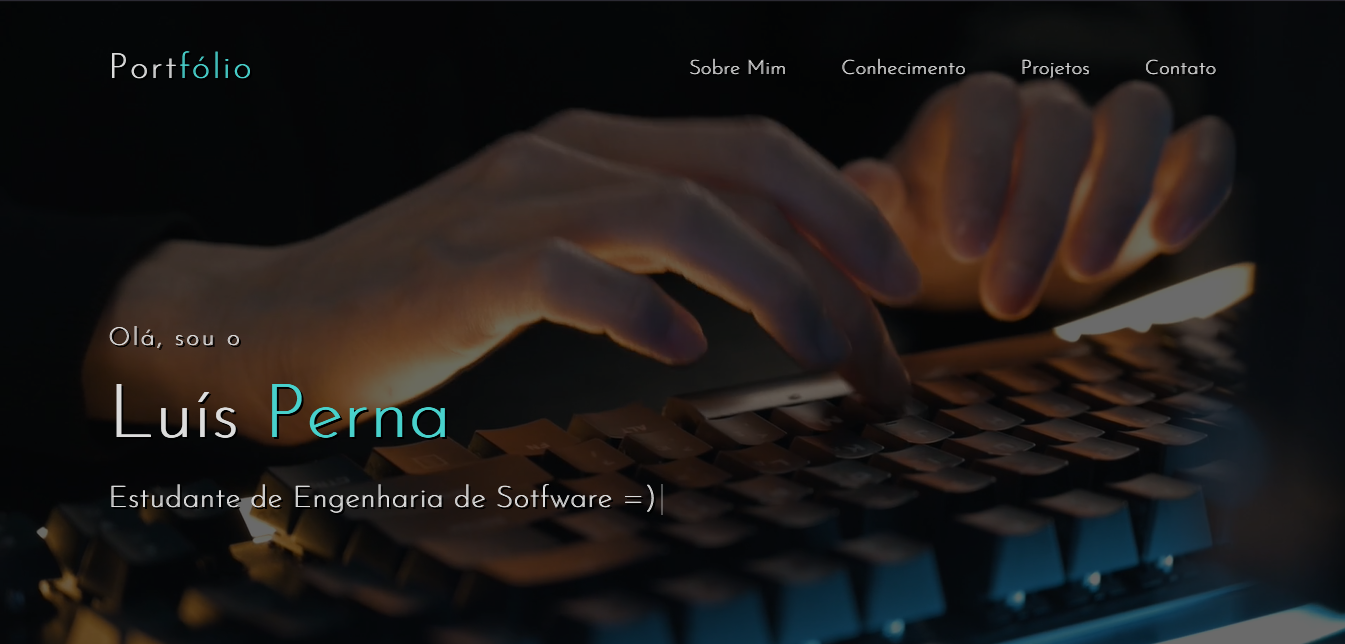
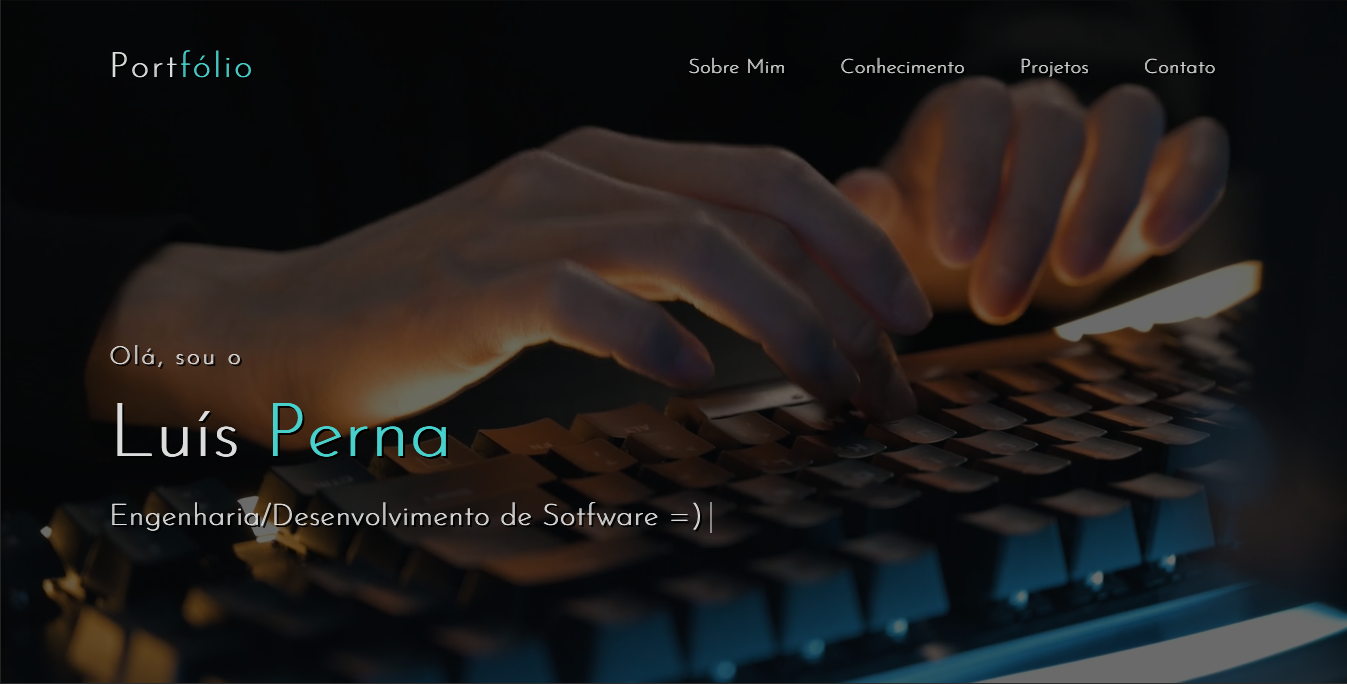
Atualização das informações e pequenos ajustes no estilo

diff --git a/index.html b/index.html
@@ -49,7 +49,7 @@
         <div class="main">
             <h4>Olá, sou o</h4>
             <h1>Luís <span>Perna</span></h1>
-            <h3 class="digitando-animation">Estudante de Engenharia de Sotfware =)</h3>
+            <h3 class="digitando-animation">Engenharia/Desenvolvimento de Sotfware =)</h3>
         </div>
         <aside>
             <div class="icone-menu" onclick="abriMenu()">
@@ -84,10 +84,10 @@
                             </div>
                     </div>
                     <p id="text-sobre-mim">Luis@Website ~<br>
-                        $ cat meu_portfolio/sobre_mim.txt<br>
-                        Saudações! Me chamo Luís Henrique Perna, tenho 19 anos e sou formado em Téc. Automação Industrial - IFSP.<br>
-                        Atualmente estou graduando em Engenharia de Software e buscando sempre aprimorar os meus conhecimentos na área.<br>
-                        Sou cativado em propor soluções a partir das tecnologias e aprender nos processos de desenvolvimento.
+                        $ cat meu_portfolio/sobre_mim.txt<br><br>
+                        Olá, sou Luís Perna, formado em Téc. Automação Industrial - IFSP e cursando Engenharia de Software.
+                        Minha paixão é criar soluções inovadoras por meio da tecnologia e estou sempre em busca de desafios para expandir meu conhecimento.<br><br>
+                        Estou comprometido em crescer continuamente na área de Engenharia de Software e contribuir para o mundo da tecnologia e seus usuários.
                     </p>
                 </div>
             </div>
@@ -104,17 +104,17 @@
         <div class="faces-cartao">
             <div class="cartao-frontal">
                 <h5 class="titulo-cartao">Relevar cartão</h5>
-                <p class="descrição-cartão">Descubra as tecnologias que estou utilizando ou estudando no momento.</p>
+                <p class="descrição-cartão">Descubra as tecnologias que utilizo ou estudo aqui.</p>
             </div>
             <div class="cartao-traseira">
                 <h5>Linguagens (geral):</h5>
-                <p>HTML | CSS | JavaScript | Python</p>
-                <h5>Banco de Dados:</h5>
-                <p>SQL | SGBD MySQL</p>
-                <h5>Versionamento e Hopedagem de código-fonte:</h5>
-                <p>Git | GitHub</p>
-                <h5>Deploy:</h5>
-                <p>GitHub Pages | Netlify | Heroku</p>
+                <p>C# | C++ | JavaScript | PHP | Python | HTML | CSS</p><br>
+                <h5>Banco de Dados/SGBD:</h5>
+                <p>SQL | PostgreSQL | SQL Server</p><br>
+                <h5>Versionamento/Hopedagem/Deploy:</h5>
+                <p>Git | GitHub | IIS | PM2 | GitHub Pages | Heroku</p><br>
+                <h5>Demais ferramentas:</h5>
+                <p>ASP.NET Core Web API | .NET MAUI | Unity | Vuforia | Node | Express | React | Electron | Tailwind CSS</p>
             </div>
         </div>
     </section>

diff --git a/assets/css/knowledge.css b/assets/css/knowledge.css
@@ -31,14 +31,14 @@
 
 .descrição-cartão{
     font-size: 20px;
-    margin-top: 20px;
+    margin-top: 55px;
 }
 
 .faces-cartao{
     display: flex;
     justify-content: center;
     align-items: center;
-    min-height: 300px;
+    min-height: 350px;
     flex-wrap: wrap;
     text-align: center;
     margin-bottom: 30px;
@@ -47,8 +47,8 @@
 .cartao-frontal, .cartao-traseira{
     position: absolute;
     background-color: #341d08;
-    width: 300px;
-    height: 200px;
+    width: 400px;
+    height: 265px;
     padding: 10px;
     border-radius: 10px;
     transition: 0.7s;

diff --git a/assets/css/home.css b/assets/css/home.css
@@ -111,8 +111,8 @@ h3{
 }
 
 .digitando-animation{
-    animation: piscaCursor 500ms steps(42) infinite normal, 
-    digitando 4s steps(42) 1.2s normal both;
+    animation: piscaCursor 600ms steps(42) infinite normal, 
+    digitando 3s steps(42) 1.2s normal both;
 }
 
 @keyframes piscaCursor{
@@ -129,7 +129,7 @@ h3{
         width: 0;
     }
     to {
-        width: 18.5em;
+        width: 20.1em;
     }
 }
 
